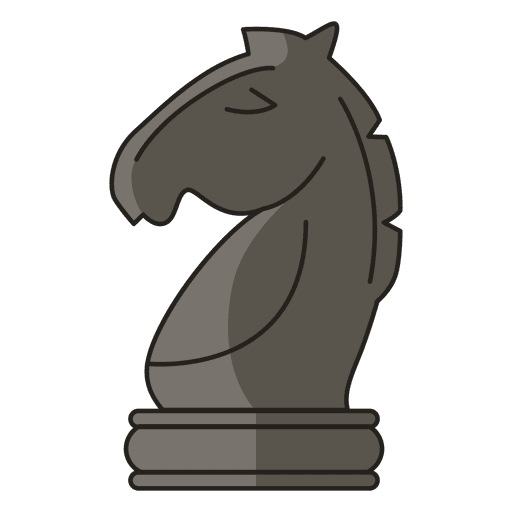
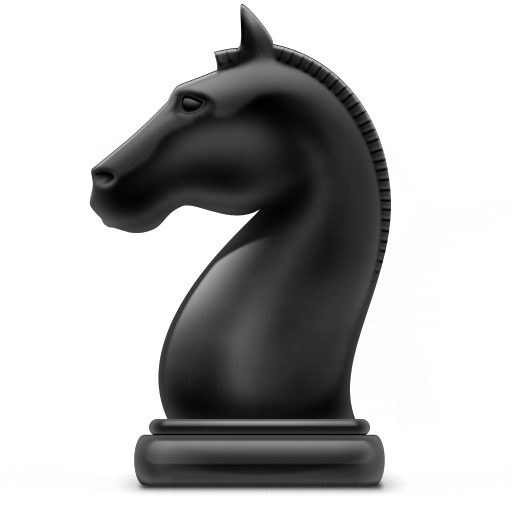
Versão 3

diff --git a/css/style.css b/css/style.css
@@ -1,10 +1,9 @@
 body{
-    background-color: #4981da;
+    background-color: #32373f;
 }
 
 .tabuleiro{
-    margin-left: 435px;
-    top: 40px;
+    top: 10px;
     position: absolute;
     border: 1px solid;
     width: 640px;
@@ -12,6 +11,7 @@ body{
     flex-wrap: wrap;
     box-shadow: 8px 8px 8px rgba(0, 0, 0, 0.65);
     display: flex;
+    z-index: -1;
 }
 
 
@@ -24,8 +24,76 @@ body{
     background-color: #ebecd0;
 }
 .black{
-    background-color: #000;
+    background-color: #789454;
 }
 
+.cavalo{
+    position: relative;
+    width: 80px;
+    top: 6px;
+    left: 80px;
+    animation: L 10s ease infinite;
+    z-index: 1;
+}
+
+#final{
+    position: absolute;
+    width: 80px;
+    height: 80px;
+    background:#c34545a6;
+    top: 571px;
+    left: 489px;
+    z-index: 1;
+}
+
+@keyframes L{
+    0%{
+        top: 7px;
+        left: 80px;
+    }
+
+
+    12.5%{
+        top: 82px;
+        left: 80px;
+    }
+
+    25%{
+        top: 82px;
+        left: 240px;
+    }
+
+    37.5%{
+        top: 242px;
+        left: 240px;
+    }
+
+    50%{
+        top: 242px;
+        left: 320px;
+    }
+
+    62.5%{
+        top: 402px;
+        left: 320px;
+    }
+
+    75%{
+        top: 402px;
+        left: 400px;
+    }
+
+    87.5%{
+       top: 562px;
+       left: 400px;
+
+    }
+
+    100%{
+        top: 562px;
+        left: 480px;
+    }
+    
+}
 
 

diff --git a/index.html b/index.html
@@ -8,6 +8,8 @@
     <title>Chessboard</title>
 </head>
 <body>
+    <div id="final"></div>
+    <img src="imgs/cavalo.png" class="cavalo">
     <div class="tabuleiro">
     <div class="box"></div>
     <div class="black box"></div>
